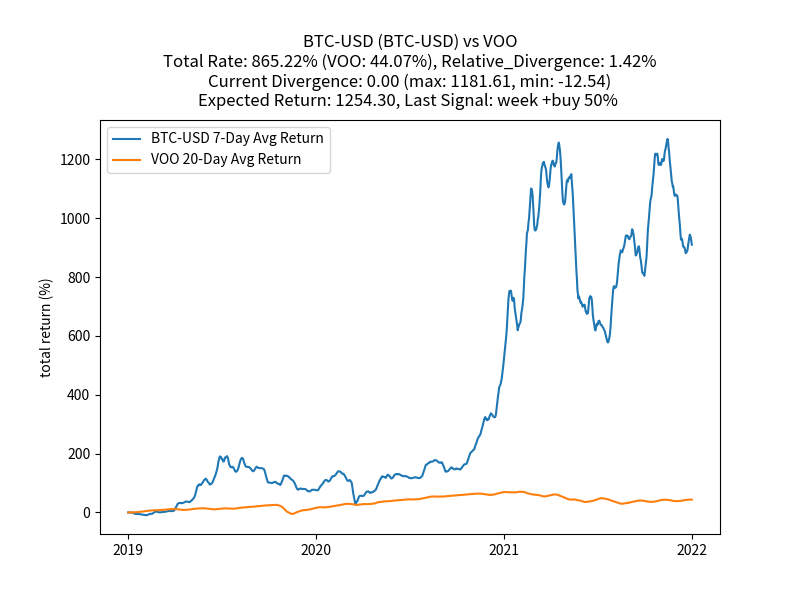
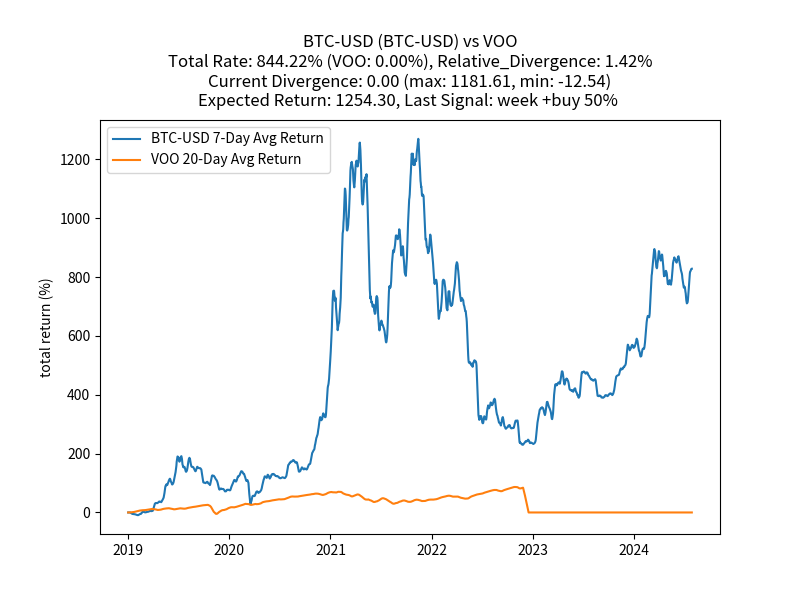
Auto-commit moved files

diff --git a/my-flask-app/Results_plot.py b/my-flask-app/Results_plot.py
@@ -171,7 +171,7 @@ if __name__ == "__main__":
     print(f"Plotting results for {ticker} from {start_date} to {end_date}")
 
     try:
-        asyncio.run(plot_comparison_results(ticker, '2019-01-01', '2021-12-31'))
+        asyncio.run(plot_comparison_results(ticker, start_date, end_date))
         print("Plotting completed successfully.")
     except Exception as e:
         print(f"Error occurred while plotting results: {e}")
